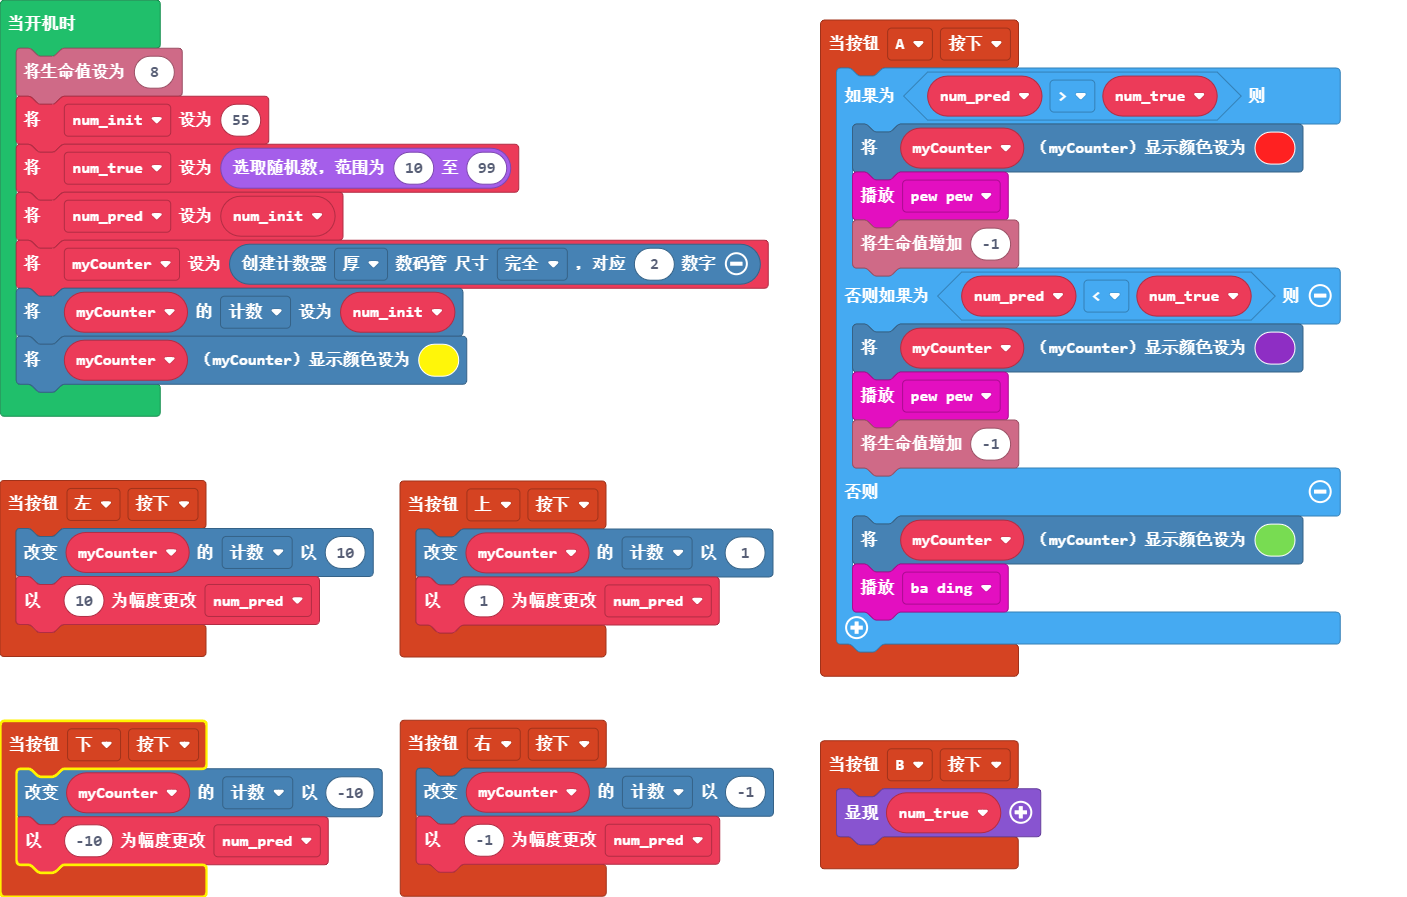
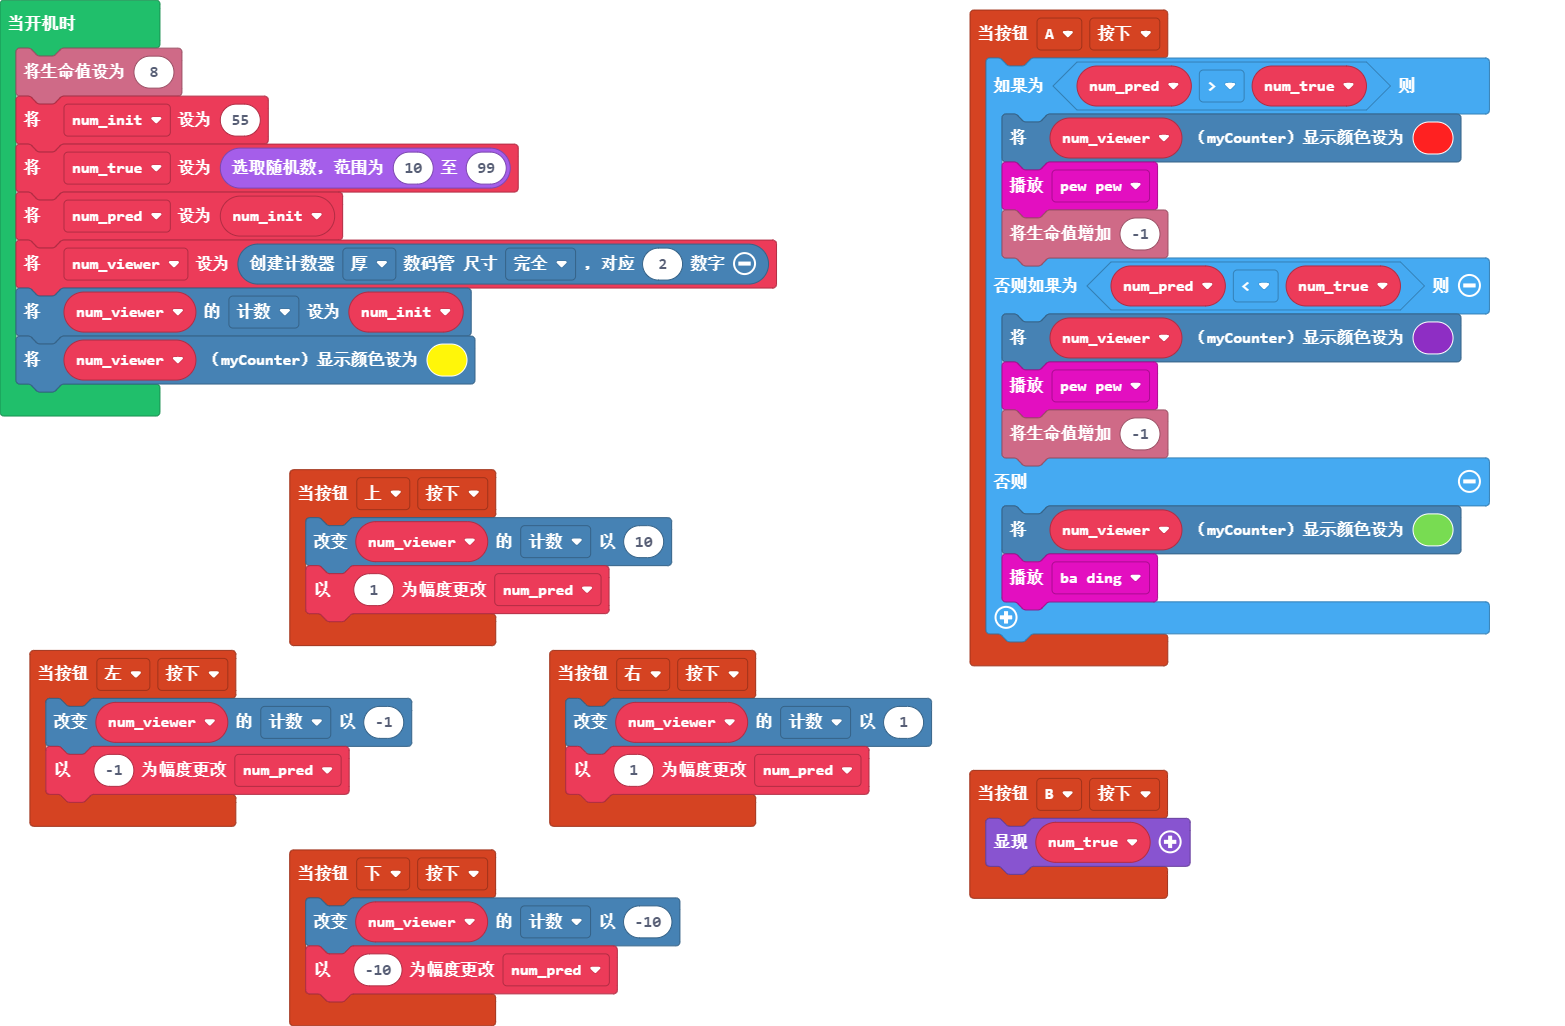
调整积木位置

diff --git a/main.ts b/main.ts
@@ -1,43 +1,43 @@
 controller.up.onEvent(ControllerButtonEvent.Pressed, function () {
-    myCounter.count += 1
+    num_viewer.count += 10
     num_pred += 1
 })
 controller.down.onEvent(ControllerButtonEvent.Pressed, function () {
-    myCounter.count += -10
+    num_viewer.count += -10
     num_pred += -10
 })
 controller.A.onEvent(ControllerButtonEvent.Pressed, function () {
     if (num_pred > num_true) {
-        myCounter.setDigitColor(2)
+        num_viewer.setDigitColor(2)
         music.pewPew.play()
         info.changeLifeBy(-1)
     } else if (num_pred < num_true) {
-        myCounter.setDigitColor(10)
+        num_viewer.setDigitColor(10)
         music.pewPew.play()
         info.changeLifeBy(-1)
     } else {
-        myCounter.setDigitColor(7)
+        num_viewer.setDigitColor(7)
         music.baDing.play()
     }
 })
 controller.right.onEvent(ControllerButtonEvent.Pressed, function () {
-    myCounter.count += -1
-    num_pred += -1
+    num_viewer.count += 1
+    num_pred += 1
 })
 controller.B.onEvent(ControllerButtonEvent.Pressed, function () {
     game.splash(num_true)
 })
 controller.left.onEvent(ControllerButtonEvent.Pressed, function () {
-    myCounter.count += 10
-    num_pred += 10
+    num_viewer.count += -1
+    num_pred += -1
 })
-let myCounter: DigitCounter = null
+let num_viewer: DigitCounter = null
 let num_pred = 0
 let num_true = 0
 info.setLife(8)
 let num_init = 55
 num_true = randint(10, 99)
 num_pred = num_init
-myCounter = sevenseg.createCounter(SegmentStyle.Thick, SegmentScale.Full, 2)
-myCounter.count = num_init
-myCounter.setDigitColor(5)
+num_viewer = sevenseg.createCounter(SegmentStyle.Thick, SegmentScale.Full, 2)
+num_viewer.count = num_init
+num_viewer.setDigitColor(5)

diff --git a/main.py b/main.py
@@ -1,0 +1,52 @@
+def on_up_pressed():
+    global num_pred
+    myCounter.count += 1
+    num_pred += 1
+controller.up.on_event(ControllerButtonEvent.PRESSED, on_up_pressed)
+
+def on_down_pressed():
+    global num_pred
+    myCounter.count += -10
+    num_pred += -10
+controller.down.on_event(ControllerButtonEvent.PRESSED, on_down_pressed)
+
+def on_a_pressed():
+    if num_pred > num_true:
+        myCounter.set_digit_color(2)
+        music.pew_pew.play()
+        info.change_life_by(-1)
+    elif num_pred < num_true:
+        myCounter.set_digit_color(10)
+        music.pew_pew.play()
+        info.change_life_by(-1)
+    else:
+        myCounter.set_digit_color(7)
+        music.ba_ding.play()
+controller.A.on_event(ControllerButtonEvent.PRESSED, on_a_pressed)
+
+def on_right_pressed():
+    global num_pred
+    myCounter.count += -1
+    num_pred += -1
+controller.right.on_event(ControllerButtonEvent.PRESSED, on_right_pressed)
+
+def on_b_pressed():
+    game.splash(num_true)
+controller.B.on_event(ControllerButtonEvent.PRESSED, on_b_pressed)
+
+def on_left_pressed():
+    global num_pred
+    myCounter.count += 10
+    num_pred += 10
+controller.left.on_event(ControllerButtonEvent.PRESSED, on_left_pressed)
+
+myCounter: DigitCounter = None
+num_pred = 0
+num_true = 0
+info.set_life(8)
+num_init = 55
+num_true = randint(10, 99)
+num_pred = num_init
+myCounter = sevenseg.create_counter(SegmentStyle.THICK, SegmentScale.FULL, 2)
+myCounter.count = num_init
+myCounter.set_digit_color(5)
